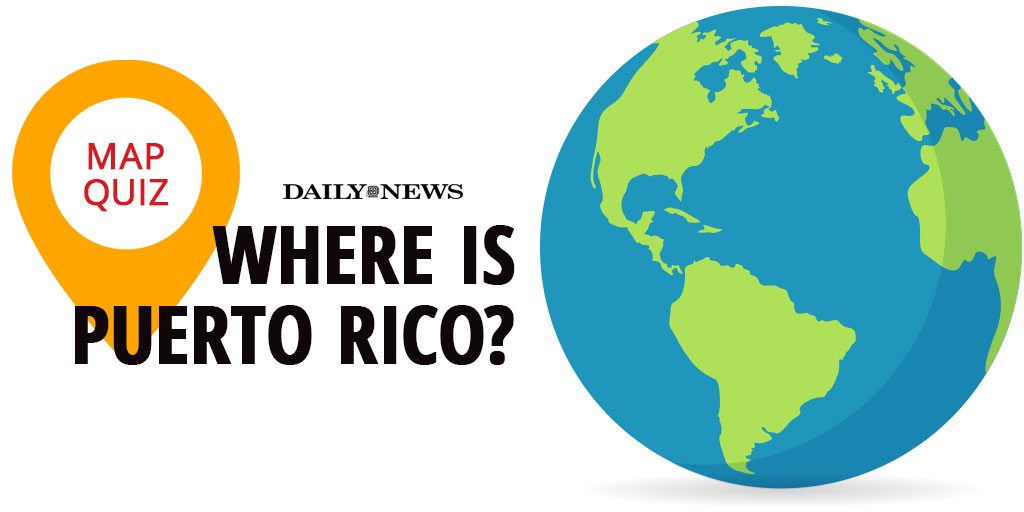
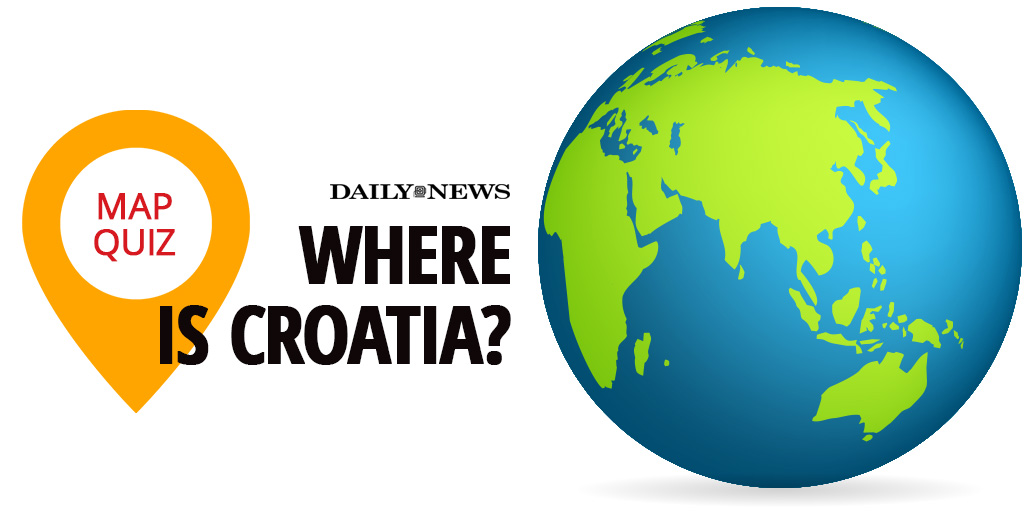
Fix js domain, update share images

diff --git a/www/thailand/index.html b/www/thailand/index.html
@@ -54,7 +54,7 @@
     <meta name="twitter:card" content="summary_large_image">
     <meta name="twitter:domain" content="http://interactive.nydailynews.com"/>
     <meta name="twitter:site" content="@nydailynews">
-    <meta name="twitter:creator" content="@nydailynews">
+    <meta name="twitter:creator" content="@nydni">
     <meta name="decorator" content="responsive" />
     <meta name="nydn_section" content="NY Daily News" />
     <meta name="msvalidate.01" content="02916AAC0DA8B068EFE01D721E03ED7E" />
@@ -68,12 +68,10 @@
     <meta name="localeCountry" content="US"/>
     <meta name="localeLanguage" content="en" />
 
-    <!-- ADOBE ANALYTICS -->
-    <script src="//assets.adobedtm.com/4fc527d6fda921c80e462d11a29deae2e4cf7514/satelliteLib-c91fdc6ac624c6cbcd50250f79786de339793801.js"></script>
-    <link rel="stylesheet" href="//www.nydailynews.com/nydn/c/rh.css">
+    <link rel="stylesheet" href="//interactive.nydailynews.com/nydn/c/rh.css">
     <link rel="stylesheet" href="../css/style.css">
     <link rel="stylesheet" href="https://fonts.googleapis.com/css?family=Open+Sans|Open+Sans+Condensed:300,700|PT+Serif:400,400i,700">
-    <script data-main="//www.nydailynews.com/nydn/js/rh.js?r=20170405001" src="//www.nydailynews.com/nydn/js/require.js?r=2016LIST" defer></script>
+    <script data-main="//interactive.nydailynews.com/nydn/js/rh.js?r=20170405001" src="//interactive.nydailynews.com/nydn/js/require.js?r=2016LIST" defer></script>
       
     <script>
         var nydn = nydn || {
